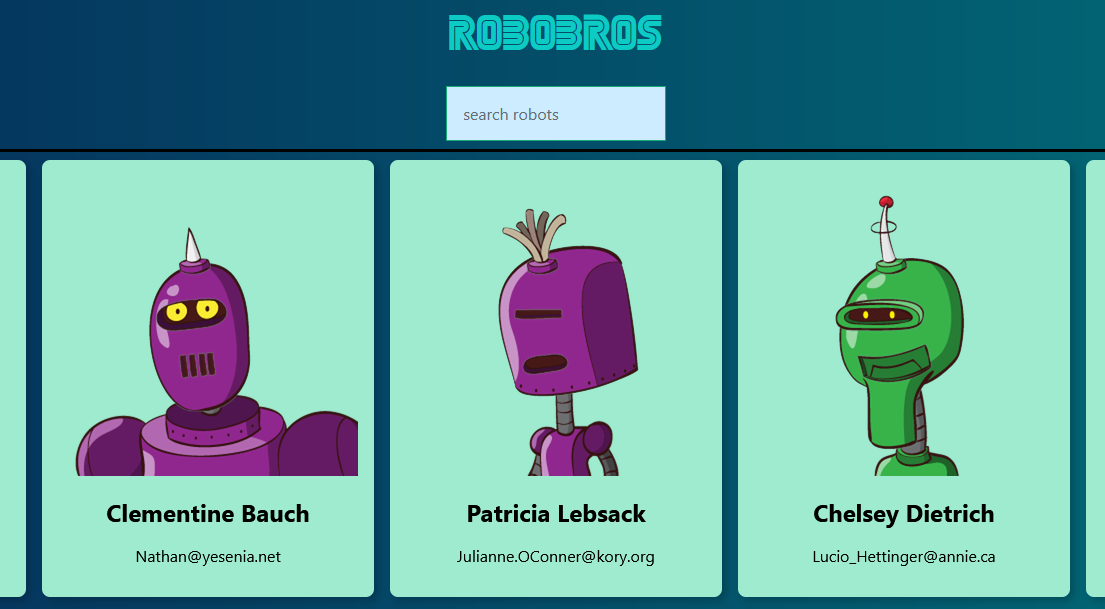
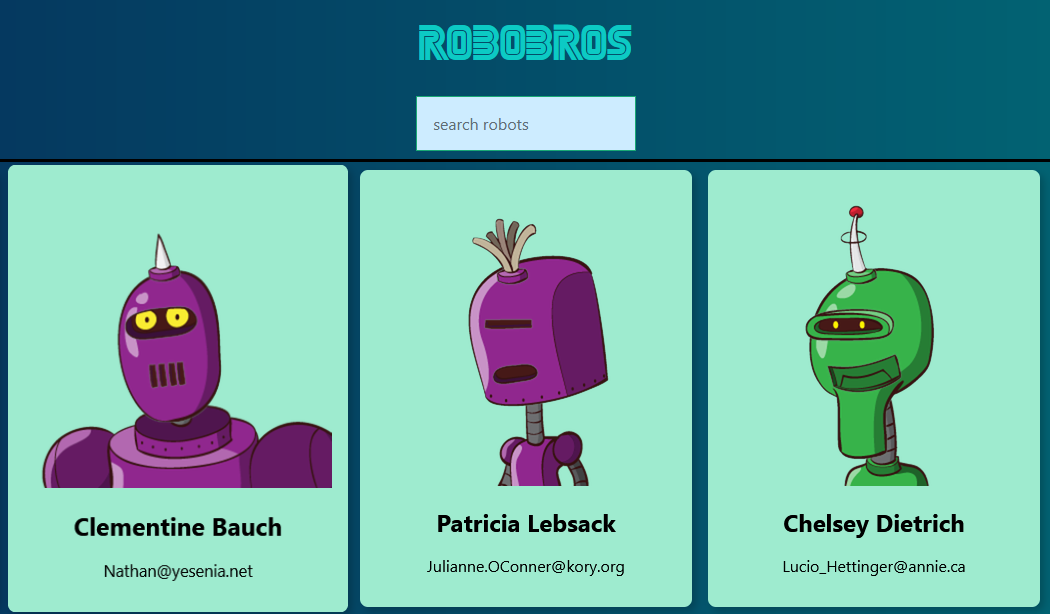
add more stuff

diff --git a/src/components/ProjectSection/ProjectTile.tsx b/src/components/ProjectSection/ProjectTile.tsx
@@ -9,7 +9,7 @@ export default function ProjectTile({
   githubUrl,
 }: Project) {
   return (
-    <div className="cursor-pointer border rounded-md md:w-full scale-100 hover:scale-[1.02] active:scale-[0.97] motion-safe:transform-gpu transition duration-100 motion-reduce:hover:scale-100 hover:shadow overflow-hidden h-full">
+    <div className="cursor-pointer border rounded-md md:w-full scale-100 hover:scale-[1.02] active:scale-[0.97] motion-safe:transform-gpu transition duration-100 motion-reduce:hover:scale-100overflow-hidden h-full flex flex-col">
       {imageSrc && (
         <Image
           src={imageSrc}
@@ -20,20 +20,26 @@ export default function ProjectTile({
           sizes="(min-width: 768px) 347px, 192px"
         />
       )}
-      <div className="flex flex-col items-center mr-2 ml-2">
-        <h3 className="text-xl mb-2 leading-snug font-bold border-2  border-black">
-          <p className="mr-3 ml-3">{title}</p>
-        </h3>
-        <p className="text-md leading-relaxed mb-4 mr-2 ml-2">{description}</p>
-        <div className="flex space-x-4">
-          <a
-            href={url}
-            className="font-slim text-black"
-            target="_blank"
-            rel="noopener noreferrer"
-          >
-            View Project
-          </a>
+      <div className="flex flex-col flex-grow justify-between p-4">
+        <div className="flex flex-col items-center">
+          <h3 className="text-xl mb-2 leading-snug font-bold border-2 border-black">
+            <p className="mr-3 ml-3">{title}</p>
+          </h3>
+          <p className="text-md leading-relaxed mb-4 mr-2 ml-2">
+            {description}
+          </p>
+        </div>
+        <div className="flex justify-center space-x-4 mt-auto">
+          {url && (
+            <a
+              href={url}
+              className="font-slim text-black"
+              target="_blank"
+              rel="noopener noreferrer"
+            >
+              View Project
+            </a>
+          )}
           {githubUrl && (
             <a
               href={githubUrl}

diff --git a/src/common/globals.css b/src/common/globals.css
@@ -62,6 +62,7 @@ body {
 }
 
 a {
+  padding: 3px;
   box-shadow: inset 0 0 0 0 #b8babb;
   color:    #b1bbbe;
   transition: color .4s ease-in-out, box-shadow .4s ease-in-out;

diff --git a/src/common/types.ts b/src/common/types.ts
@@ -1,5 +1,5 @@
 export interface Project {
-    url: string;
+    url?: string;
     title: string;
     description: string;
     imageSrc?: string;
